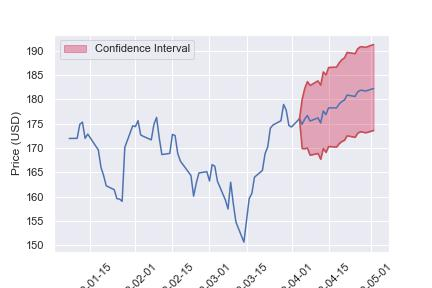
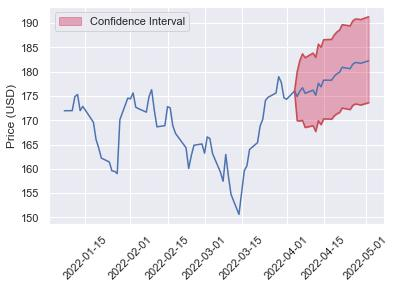
1

diff --git a/predict/prediction_tool.py b/predict/prediction_tool.py
@@ -87,7 +87,7 @@ def price_confidence_interval(stock, CI=0.95, plot_graph=False):
             plt.ylabel("Price (HKD)")
         else:
             plt.ylabel("Price (USD)")
-        plt.savefig(f"stock_graph/{stock}.jpg")
+        plt.savefig(f"stock_graph/{stock}.jpg", bbox_inches="tight")
         plt.show()
 
     
